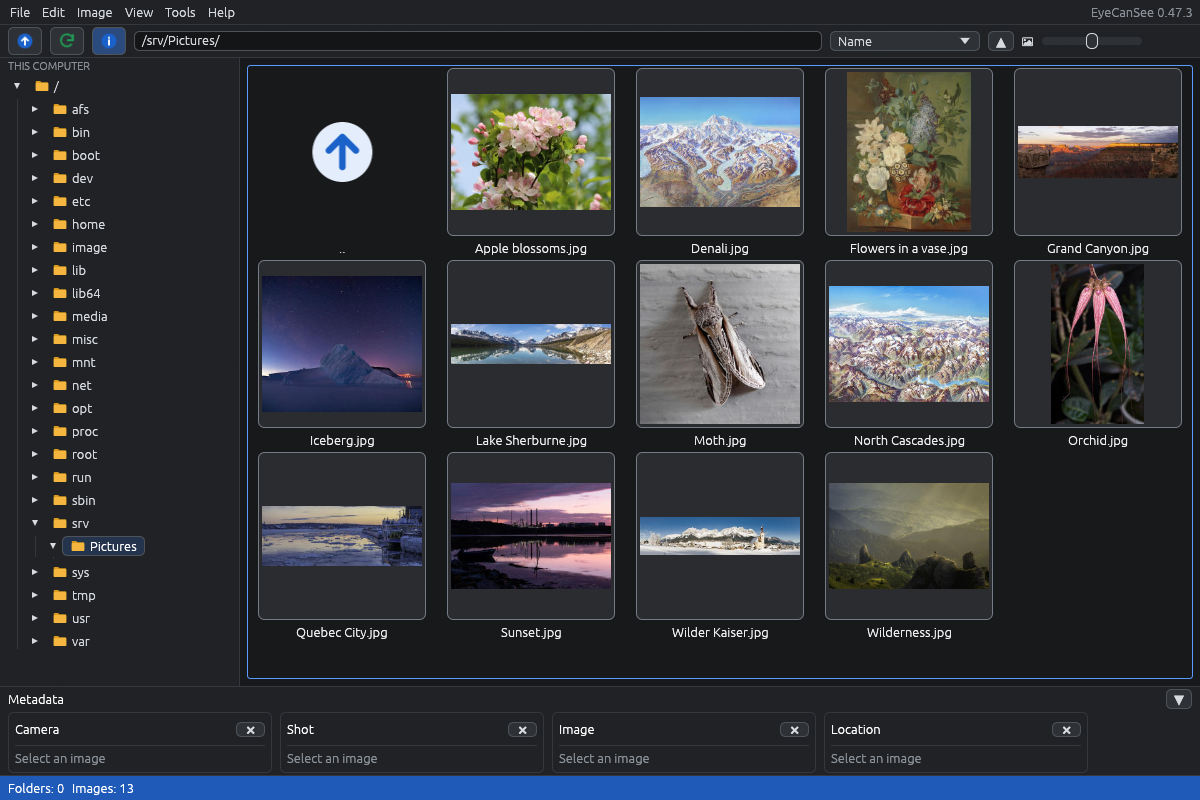
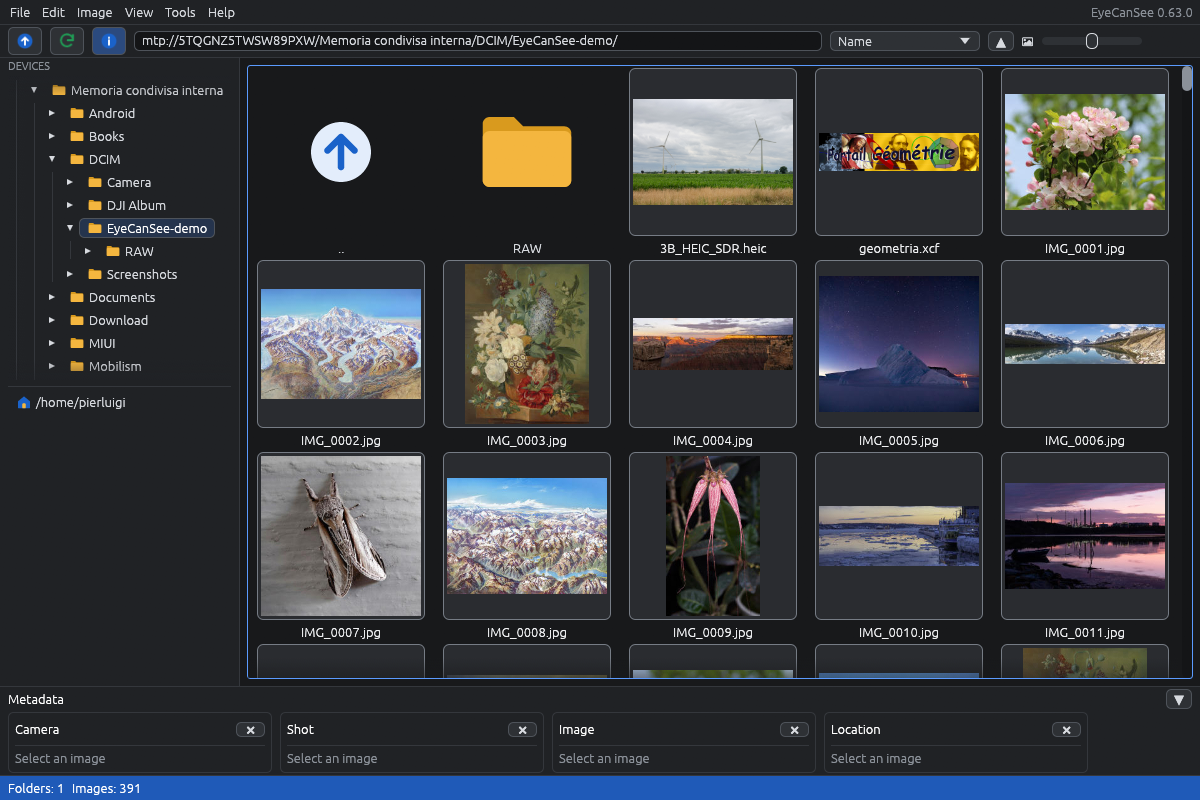
Screenshots and MTP timing for the README

diff --git a/README.md b/README.md
@@ -6,7 +6,11 @@ It is early in development. This page lists only what works now: new features ar
 
 ![The grid: thumbnails of a folder, with the devices and the folder tree on the left](docs/screenshots/grid.png)
 
-![The viewer, with the metadata panel](docs/screenshots/viewer.png)
+![The viewer](docs/screenshots/viewer.png)
+
+![Opening a phone folder in EyeCanSee](docs/screenshots/mtp-open.gif)
+
+*Opening a folder of 400 files on a POCO X7 Pro over USB (Fedora 44, EyeCanSee 0.63.0, cold caches): the file manager (gvfs) takes 9.3 s to list the names; EyeCanSee lists them in 0.07 s after a 0.5 s open and shows the first thumbnails within 0.8 s. Test images: public-domain photos, copied several times.*
 
 ## About
 
